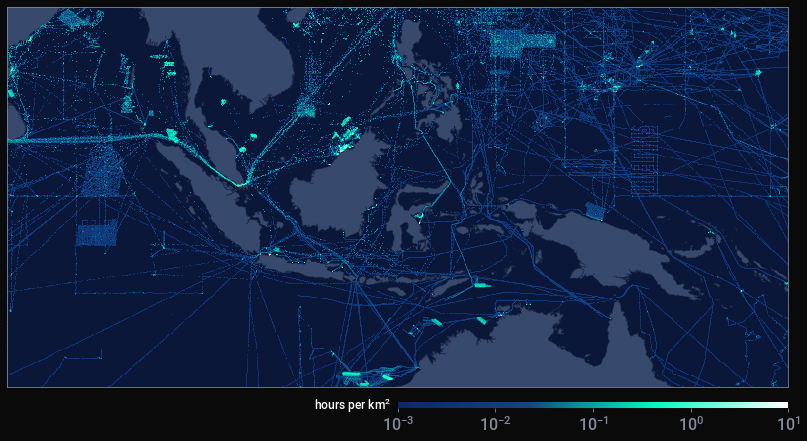
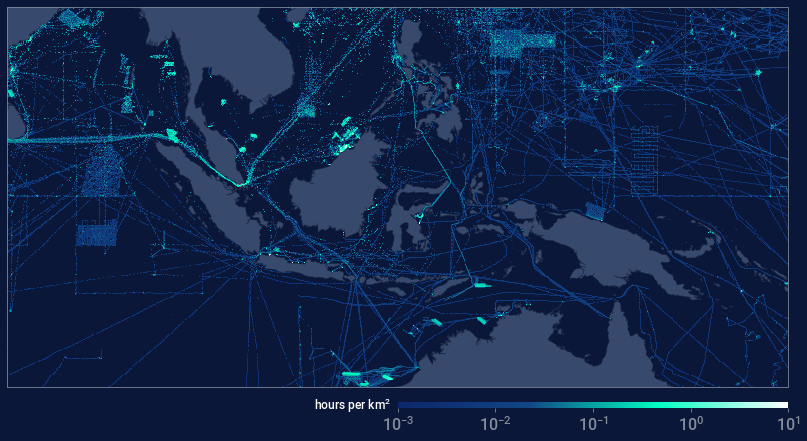
try using ocean color for background

Changed region(s): [[0.0, 0.0, 1.0, 1.0]]

diff --git a/pyseas/doc/Examples.py b/pyseas/doc/Examples.py
@@ -41,12 +41,13 @@ with psm.context(psm.styles.dark):
     psm.create_map(projection="regional.european_union")
     psm.add_land()
 
-# `psm.context` sets the background color of the figure, which means that the call to
-# `plt.figure` must occur inside the context block. For example, to set the figure
-# background to red, one could do:
+# By default`psm.context` sets the background color of the figure to match the ocean color, 
+# which means that the call to
+# `plt.figure` must occur inside the context block. To overide this, for example to set the figure
+# background to transparent, one could do:
 
 with psm.context(psm.styles.dark):
-    with psm.context({"figure.facecolor" : (1, 0, 0, 1)}):
+    with psm.context({"figure.facecolor" : (0, 0, 0, 0)}):
         fig = plt.figure(figsize=(16, 9))
         psm.create_map(projection="regional.european_union")
         psm.add_land()

diff --git a/pyseas/doc/Examples.md b/pyseas/doc/Examples.md
@@ -50,14 +50,15 @@ with psm.context(psm.styles.dark):
     
 
 
-`psm.context` sets the background color of the figure, which means that the call to
-`plt.figure` must occur inside the context block. For example, to set the figure
-background to red, one could do:
+By default`psm.context` sets the background color of the figure to match the ocean color, 
+which means that the call to
+`plt.figure` must occur inside the context block. To overide this, for example to set the figure
+background to transparent, one could do:
 
 
 ```python
 with psm.context(psm.styles.dark):
-    with psm.context({"figure.facecolor" : (1, 0, 0, 1)}):
+    with psm.context({"figure.facecolor" : (0, 0, 0, 0)}):
         fig = plt.figure(figsize=(16, 9))
         psm.create_map(projection="regional.european_union")
         psm.add_land()
